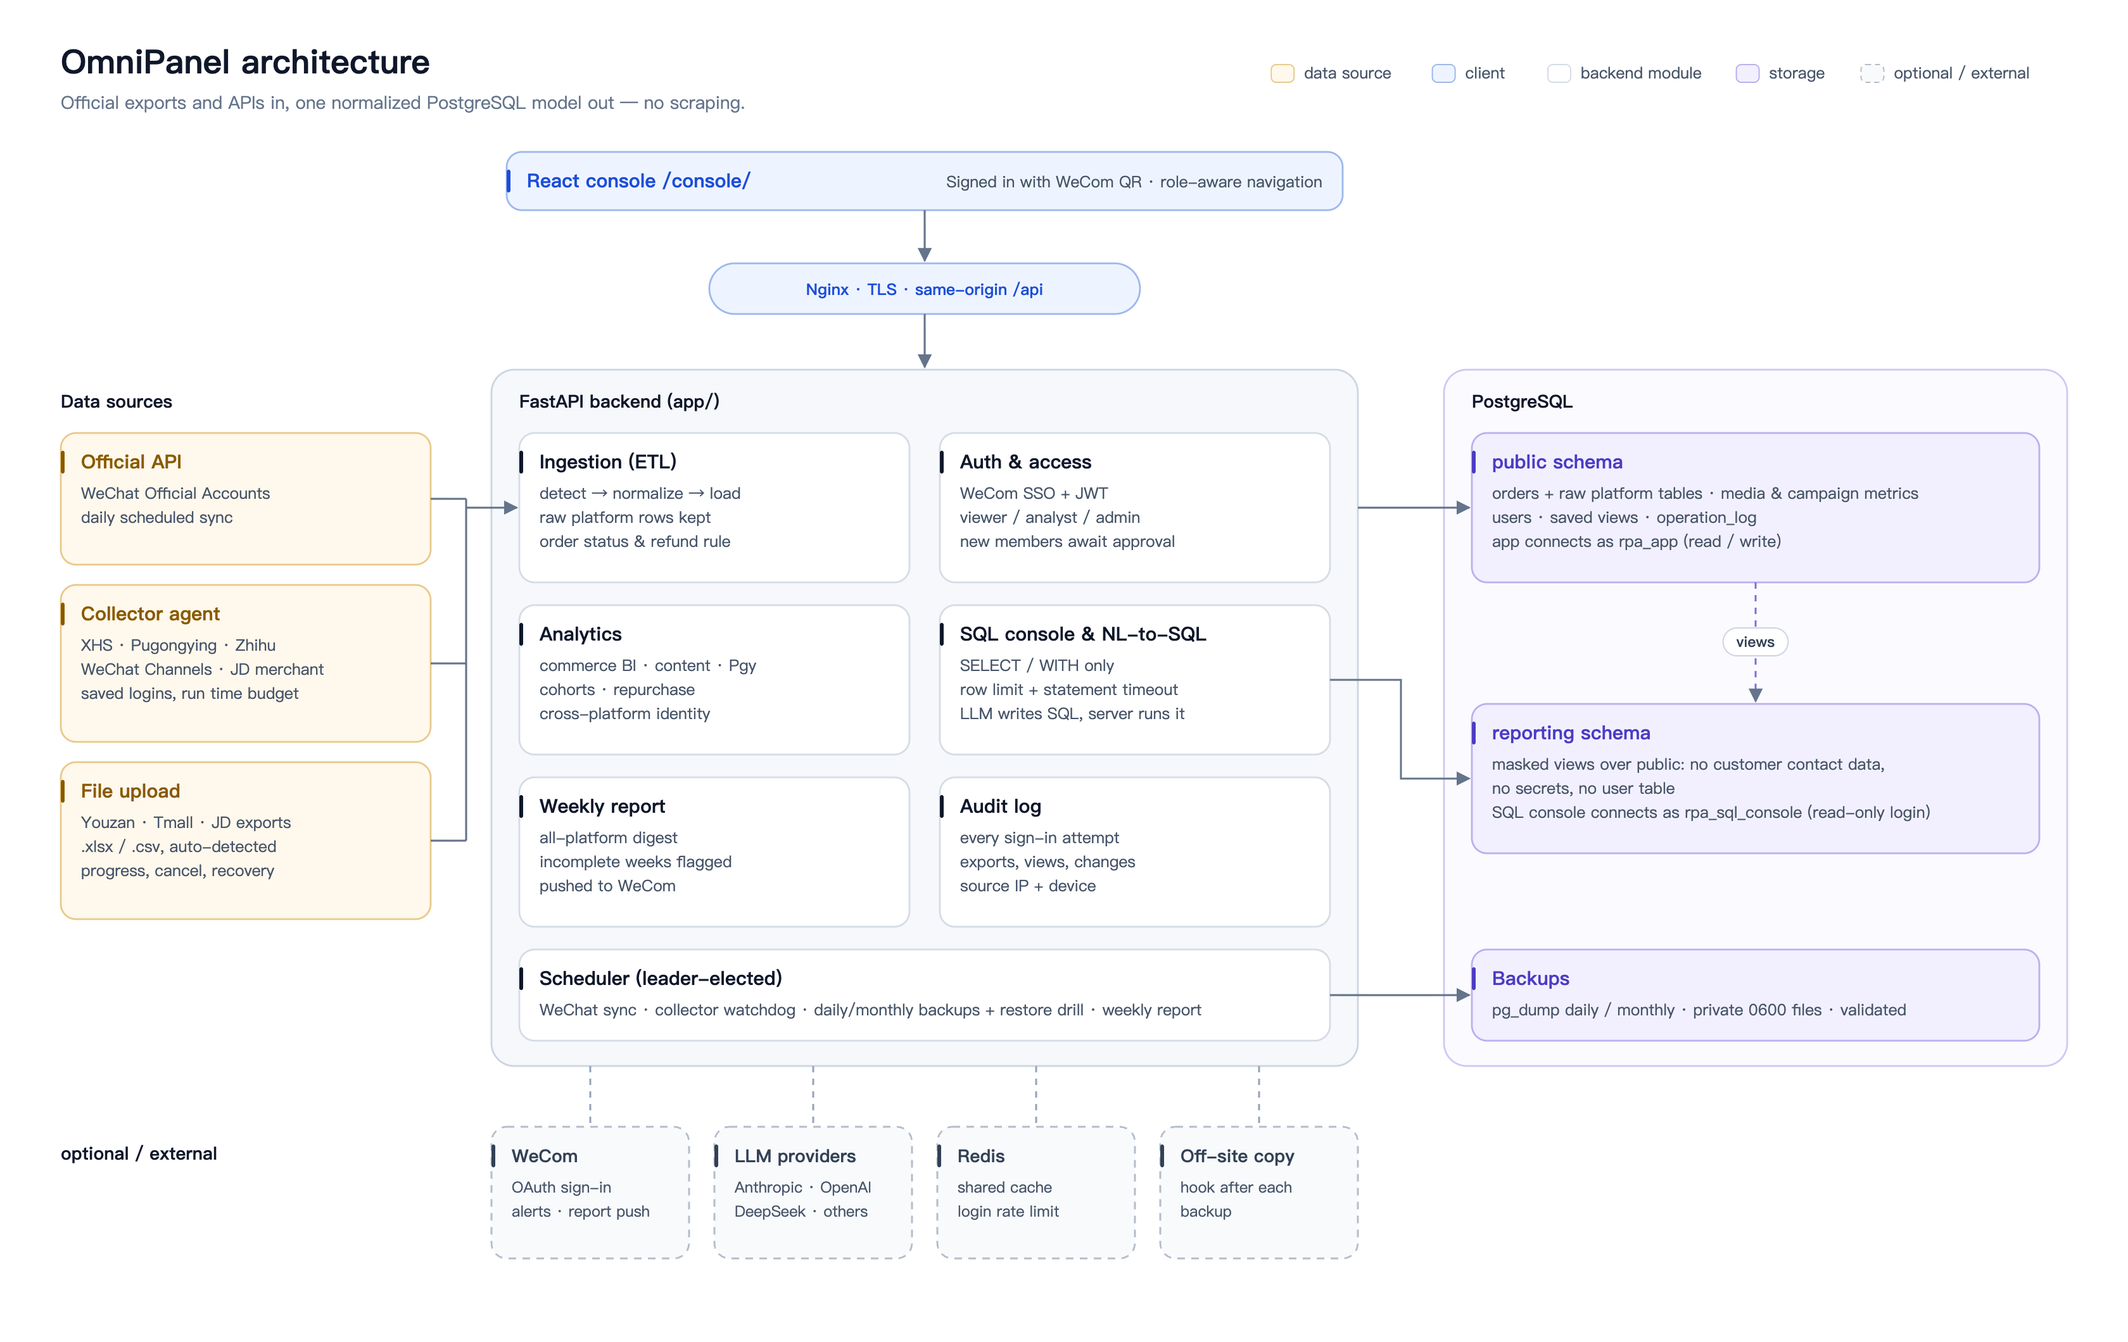
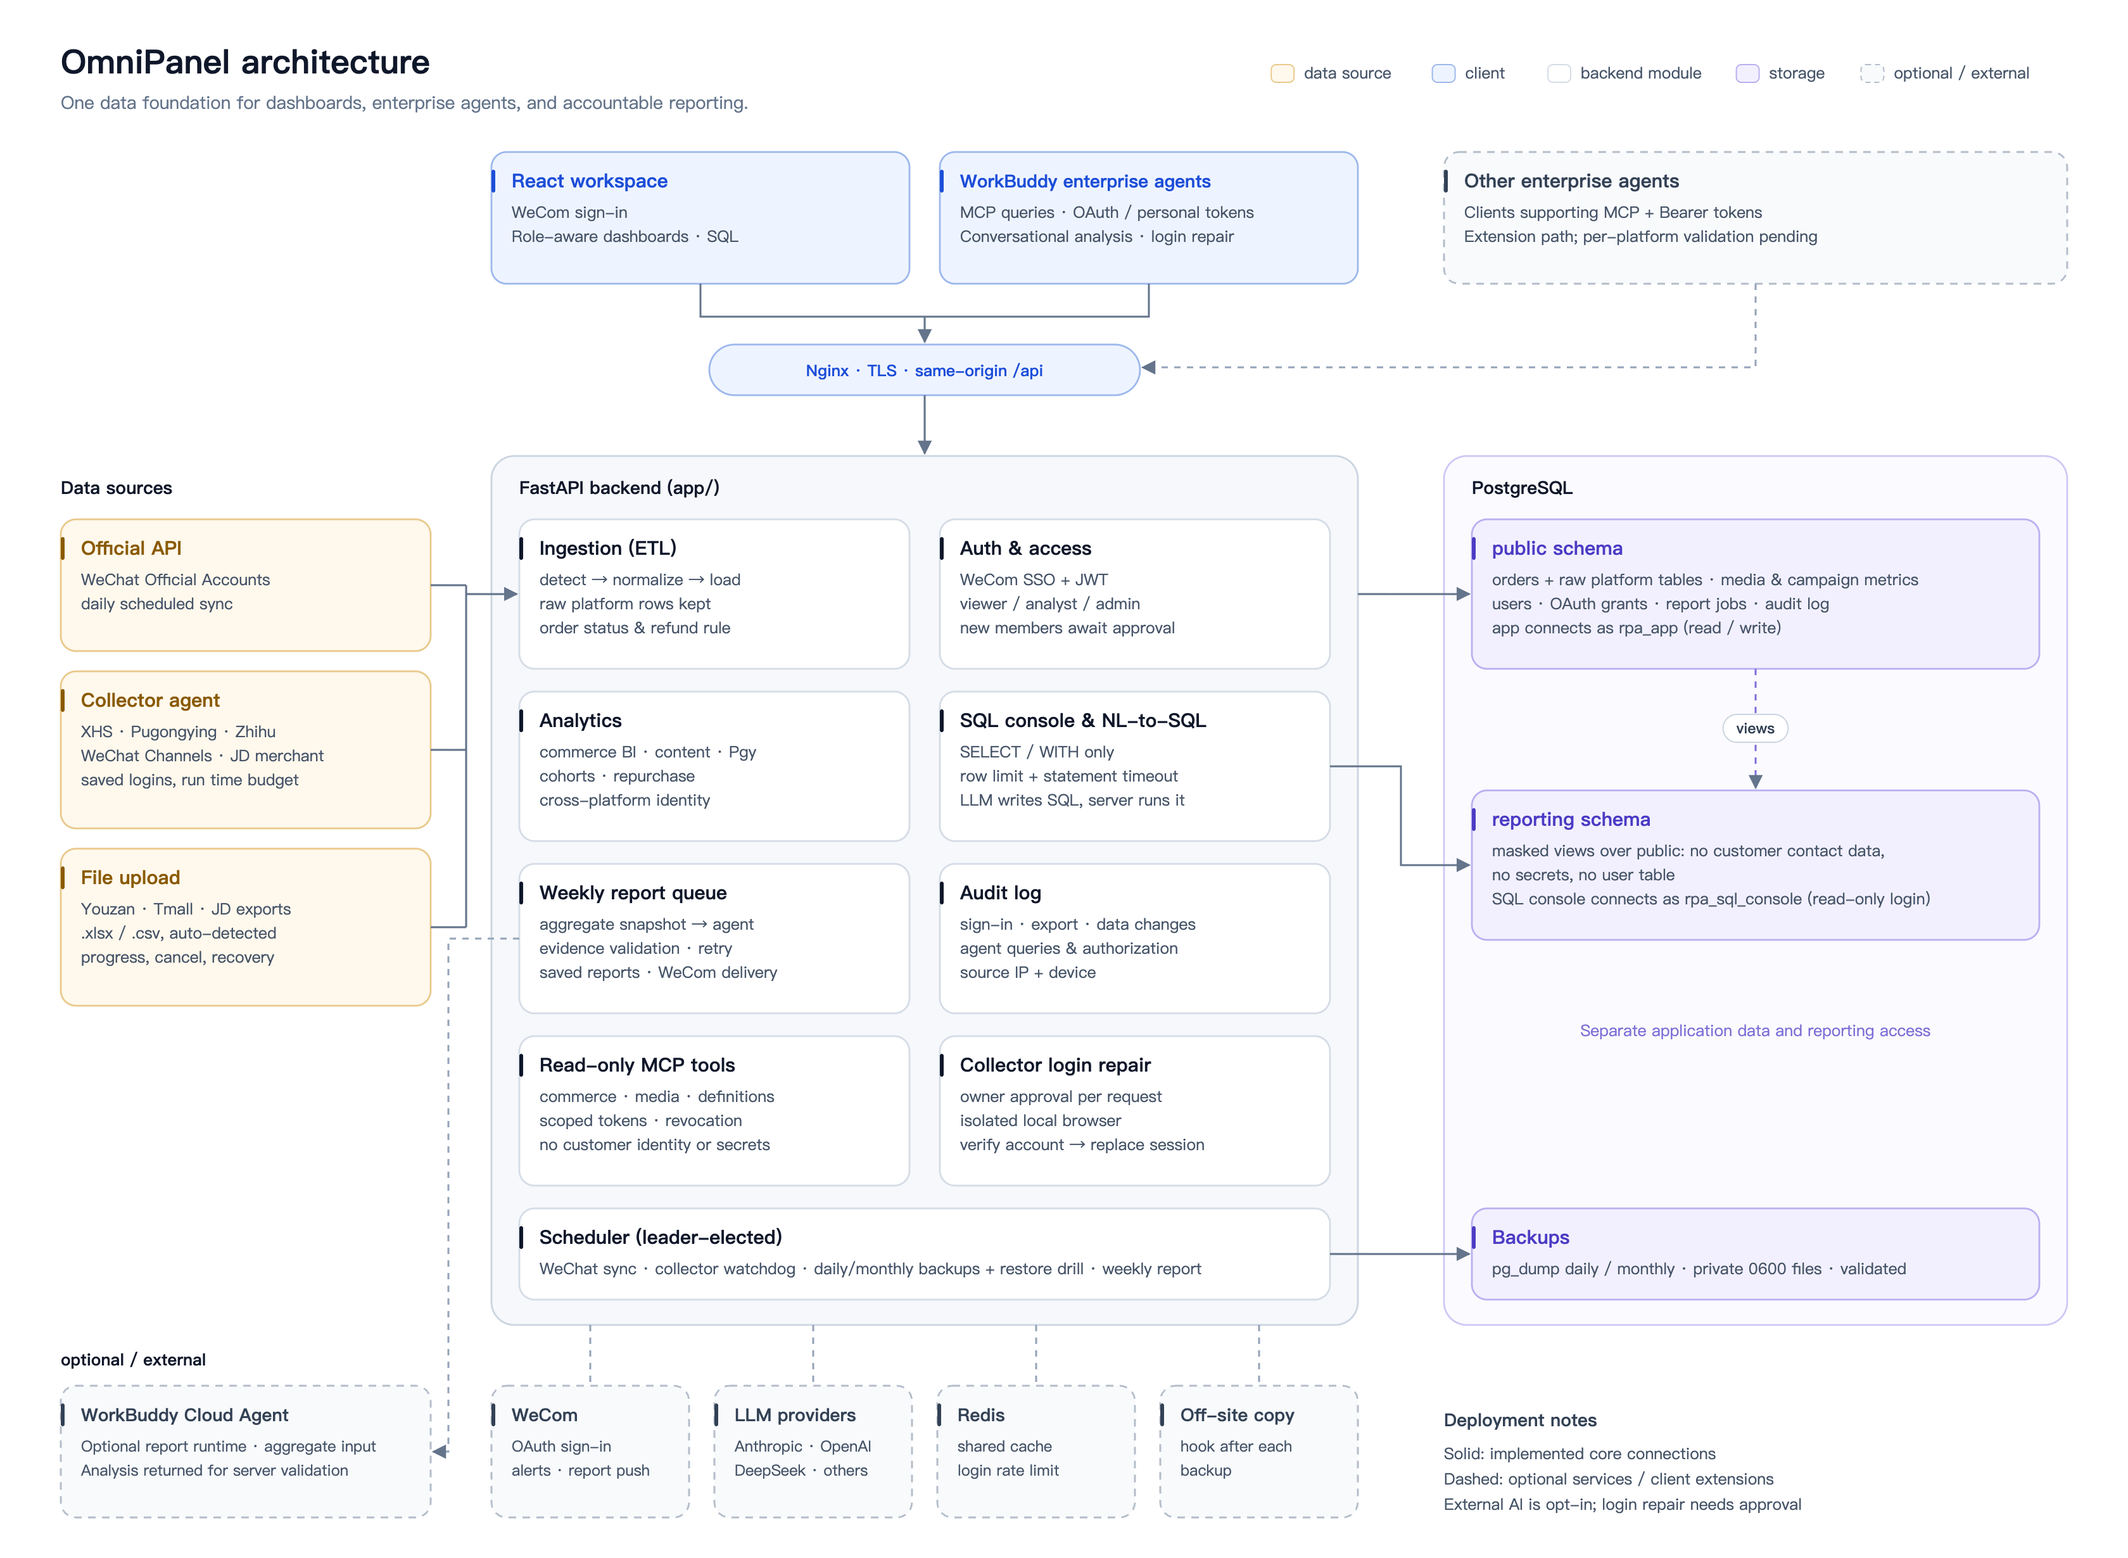
Restore architecture card style with enterprise-agent integration

diff --git a/docs/images/generate_architecture_diagram.py b/docs/images/generate_architecture_diagram.py
@@ -18,7 +18,7 @@ from pathlib import Path
 from playwright.sync_api import sync_playwright
 
 OUT_DIR = Path(__file__).resolve().parent
-W, H = 1680, 1060
+W, H = 1680, 1230
 
 # Fill, border, accent (title) per kind of box.
 PALETTE = {
@@ -33,7 +33,7 @@ TEXT = {
     "en": {
         "out": "architecture.png",
         "title": "OmniPanel architecture",
-        "subtitle": "Official exports and APIs in, one normalized PostgreSQL model out — no scraping.",
+        "subtitle": "One data foundation for dashboards, enterprise agents, and accountable reporting.",
         "sources": "Data sources",
         "src": [
             ("Official API", ["WeChat Official Accounts", "daily scheduled sync"]),
@@ -48,12 +48,14 @@ TEXT = {
             ("Auth & access", ["WeCom SSO + JWT", "viewer / analyst / admin", "new members await approval"]),
             ("Analytics", ["commerce BI · content · Pgy", "cohorts · repurchase", "cross-platform identity"]),
             ("SQL console & NL-to-SQL", ["SELECT / WITH only", "row limit + statement timeout", "LLM writes SQL, server runs it"]),
-            ("Weekly report", ["all-platform digest", "incomplete weeks flagged", "pushed to WeCom"]),
-            ("Audit log", ["every sign-in attempt", "exports, views, changes", "source IP + device"]),
+            ("Weekly report queue", ["aggregate snapshot → agent", "evidence validation · retry", "saved reports · WeCom delivery"]),
+            ("Audit log", ["sign-in · export · data changes", "agent queries & authorization", "source IP + device"]),
+            ("Read-only MCP tools", ["commerce · media · definitions", "scoped tokens · revocation", "no customer identity or secrets"]),
+            ("Collector login repair", ["owner approval per request", "isolated local browser", "verify account → replace session"]),
         ],
         "scheduler": ("Scheduler  (leader-elected)", "WeChat sync · collector watchdog · daily/monthly backups + restore drill · weekly report"),
         "db": "PostgreSQL",
-        "public": ("public schema", ["orders + raw platform tables · media & campaign metrics", "users · saved views · operation_log", "app connects as rpa_app (read / write)"]),
+        "public": ("public schema", ["orders + raw platform tables · media & campaign metrics", "users · OAuth grants · report jobs · audit log", "app connects as rpa_app (read / write)"]),
         "reporting": ("reporting schema", ["masked views over public: no customer contact data,", "no secrets, no user table", "SQL console connects as rpa_sql_console (read-only login)"]),
         "backups": ("Backups", ["pg_dump daily / monthly · private 0600 files · validated"]),
         "views": "views",
@@ -69,7 +71,7 @@ TEXT = {
     "zh": {
         "out": "architecture.zh-CN.png",
         "title": "OmniPanel 架构",
-        "subtitle": "只接官方导出与官方 API，统一归一化到 PostgreSQL —— 不写爬虫。",
+        "subtitle": "统一数据底座，连接分析工作台、企业智能体与可追溯的经营周报。",
         "sources": "数据来源",
         "src": [
             ("官方 API", ["微信公众号", "每天定时同步"]),
@@ -84,12 +86,14 @@ TEXT = {
             ("鉴权与权限", ["企业微信单点登录 + JWT", "viewer / analyst / admin", "新成员需管理员开通"]),
             ("分析接口", ["商城 BI · 内容 · 蒲公英", "队列留存 · 复购", "跨平台客户识别"]),
             ("SQL 查询台与中文问数据", ["只允许 SELECT / WITH", "自动限行 + 语句超时", "大模型写 SQL，服务端执行"]),
-            ("周报", ["全平台汇总", "订单未传完整会标注", "推送到企业微信"]),
-            ("操作日志", ["每一次登录尝试", "导出、查看、数据变更", "来源 IP 与设备"]),
+            ("周报任务队列", ["汇总快照 → 智能体", "证据校验 · 失败重试", "保存报告 · 企业微信推送"]),
+            ("操作日志", ["登录 · 导出 · 数据变更", "智能体查询与授权记录", "来源 IP 与设备"]),
+            ("只读 MCP 工具", ["商城 · 媒体 · 统计口径", "按范围授权 · 可撤销令牌", "不开放客户身份与密钥"]),
+            ("采集登录修复", ["每次请求由负责人确认", "独立的本地浏览器登录", "目标账号复检 → 替换登录态"]),
         ],
         "scheduler": ("后台调度  (leader 选举)", "公众号同步 · 采集看门狗 · 每日/月度备份与恢复演练 · 周报"),
         "db": "PostgreSQL",
-        "public": ("public 模式", ["订单与平台原始表 · 内容与合作指标", "用户 · 保存的视图 · 操作日志", "应用以 rpa_app 连接（读写）"]),
+        "public": ("public 模式", ["订单与平台原始表 · 内容与合作指标", "用户 · OAuth 授权 · 周报任务 · 操作日志", "应用以 rpa_app 连接（读写）"]),
         "reporting": ("reporting 模式", ["基于 public 的脱敏视图：不含客户联系方式、", "密钥和用户表", "查询台以 rpa_sql_console 连接（只读登录）"]),
         "backups": ("备份", ["pg_dump 每日 / 每月 · 文件权限 0600 · 自动校验"]),
         "views": "视图",
@@ -154,55 +158,66 @@ def build(t: dict) -> str:
     s.text(48, 58, t["title"], size=26, weight=700, fill="#0F172A")
     s.text(48, 86, t["subtitle"], size=14, fill="#64748B")
 
-    # Client row
-    s.card(400, 120, 660, 46, "client", t["browser"][0], [], title_size=15)
-    s.text(1044, 148, t["browser"][1], size=12.5, anchor="end", fill="#475569")
-    s.arrow("M730 166 V206")
-    s.box(560, 208, 340, 40, "client", r=20)
-    s.text(730, 233, t["proxy"], size=12.5, weight=500, fill="#1D4ED8", anchor="middle")
-    s.arrow("M730 248 V290")
+    zh = t["out"].endswith("zh-CN.png")
+    # Three entry points retain the original blue client cards.
+    s.card(388, 120, 330, 104, "client", "React 工作台" if zh else "React workspace",
+           ["企业微信扫码登录", "角色导航 · 看板 · SQL"] if zh else
+           ["WeCom sign-in", "Role-aware dashboards · SQL"])
+    s.card(742, 120, 330, 104, "client", "WorkBuddy 企业智能体" if zh else "WorkBuddy enterprise agents",
+           ["MCP 查询 · OAuth / 个人令牌", "对话问数 · 发起登录修复"] if zh else
+           ["MCP queries · OAuth / personal tokens", "Conversational analysis · login repair"], title_size=14)
+    s.card(1140, 120, 492, 104, "external", "其他企业智能体" if zh else "Other enterprise agents",
+           ["兼容 MCP + Bearer 令牌的客户端", "扩展接入路径，尚未逐平台验证"] if zh else
+           ["Clients supporting MCP + Bearer tokens", "Extension path; per-platform validation pending"], dashed=True)
+    s.line("M553 224 V250 H907 V224")
+    s.arrow("M730 250 V270")
+    s.arrow("M1386 224 V290 H902", dashed=True, color="#94A3B8")
+    s.box(560, 272, 340, 40, "client", r=20)
+    s.text(730, 297, t["proxy"], size=12.5, weight=500, fill="#1D4ED8", anchor="middle")
+    s.arrow("M730 312 V358")
 
-    # Backend group
-    s.add('<rect x="388" y="292" width="684" height="550" rx="18" fill="#F6F8FB" stroke="#CBD5E1" stroke-width="1.4"/>')
-    s.text(410, 322, t["backend"], size=14, weight=700, fill="#0F172A")
-    col = (410, 742)
-    rows = (342, 478, 614)
+    # Backend modules: the original two-column grid, extended by one row.
+    s.add('<rect x="388" y="360" width="684" height="686" rx="18" fill="#F6F8FB" stroke="#CBD5E1" stroke-width="1.4"/>')
+    s.text(410, 390, t["backend"], size=14, weight=700, fill="#0F172A")
     for i, (title, lines) in enumerate(t["modules"]):
-        s.card(col[i % 2], rows[i // 2], 308, 118, "module", title, lines)
-    s.card(410, 750, 640, 72, "module", t["scheduler"][0], [t["scheduler"][1]])
+        s.card((410, 742)[i % 2], (410, 546, 682, 818)[i // 2], 308, 118, "module", title, lines)
+    s.card(410, 954, 640, 72, "module", t["scheduler"][0], [t["scheduler"][1]])
 
-    # Sources column and bus into Ingestion
-    s.text(48, 322, t["sources"], size=14, weight=700, fill="#0F172A")
-    ys = ((342, 104), (462, 124), (602, 124))
-    for (y, h), (title, lines) in zip(ys, t["src"]):
+    # Ingestion sources remain on the left.
+    s.text(48, 390, t["sources"], size=14, weight=700, fill="#0F172A")
+    for (y, h), (title, lines) in zip(((410,104),(530,124),(670,124)), t["src"]):
         s.card(48, y, 292, h, "source", title, lines)
         s.line(f"M340 {y + h / 2} H368")
-    s.line(f"M368 {342 + 52} V{602 + 62}")
-    s.arrow("M368 401 H408")
+    s.line("M368 462 V732")
+    s.arrow("M368 469 H408")
 
-    # PostgreSQL group
-    s.add('<rect x="1140" y="292" width="492" height="550" rx="18" fill="#FBFAFF" stroke="#CFC8F5" stroke-width="1.4"/>')
-    s.text(1162, 322, t["db"], size=14, weight=700, fill="#0F172A")
-    pub_t, pub_l = t["public"]
-    s.card(1162, 342, 448, 118, "data", pub_t, pub_l)
-    rep_t, rep_l = t["reporting"]
-    s.card(1162, 556, 448, 118, "data", rep_t, rep_l)
-    s.card(1162, 750, 448, 72, "data", t["backups"][0], t["backups"][1])
-    s.arrow("M1386 460 V554", dashed=True, color="#7C6FD6")
-    s.pill(1386, 507, t["views"])
+    # Storage and the isolated SQL role remain on the right.
+    s.add('<rect x="1140" y="360" width="492" height="686" rx="18" fill="#FBFAFF" stroke="#CFC8F5" stroke-width="1.4"/>')
+    s.text(1162, 390, t["db"], size=14, weight=700, fill="#0F172A")
+    s.card(1162, 410, 448, 118, "data", t["public"][0], t["public"][1])
+    s.card(1162, 624, 448, 118, "data", t["reporting"][0], t["reporting"][1])
+    s.card(1162, 954, 448, 72, "data", t["backups"][0], t["backups"][1])
+    s.arrow("M1386 528 V622", dashed=True, color="#7C6FD6")
+    s.pill(1386, 575, t["views"])
+    s.arrow("M1072 469 H1160")
+    s.arrow("M1050 605 H1106 V683 H1160")
+    s.arrow("M1050 990 H1160")
+    s.text(1386, 818, "业务表与受限报表视图分离" if zh else "Separate application data and reporting access",
+           size=12.5, anchor="middle", fill="#7C6FD6")
 
-    # Backend → database
-    s.arrow("M1072 401 H1160")
-    s.arrow("M1050 537 H1106 V615 H1160")
-    s.arrow("M1050 786 H1160")
-
-    # External services
-    ext_y = 912
-    xs = (388, 564, 740, 916)
-    s.text(48, ext_y + 4, t["optional"], size=14, weight=700, fill="#0F172A")
-    for x, (title, lines) in zip(xs, t["external"]):
-        s.card(x, ext_y - 22, 156, 104, "external", title, lines, dashed=True, title_size=14, line_size=12)
-        s.line(f"M{x + 78} 842 V{ext_y - 22}", dashed=True, color="#94A3B8")
+    # WorkBuddy's report runtime is distinct from its MCP client.
+    s.card(48, 1094, 292, 104, "external", "WorkBuddy Cloud Agent",
+           ["可选周报服务 · 接收汇总快照", "返回分析结果，平台校验后保存"] if zh else
+           ["Optional report runtime · aggregate input", "Analysis returned for server validation"], dashed=True, title_size=14, line_size=12)
+    s.arrow("M410 741 H354 V1146 H342", dashed=True, color="#94A3B8")
+    s.text(48, 1078, t["optional"], size=13, weight=700, fill="#0F172A")
+    for x, (title, lines) in zip((388,564,740,916), t["external"]):
+        s.card(x, 1094, 156, 104, "external", title, lines, dashed=True, title_size=14, line_size=12)
+        s.line(f"M{x + 78} 1046 V1094", dashed=True, color="#94A3B8")
+    s.text(1140, 1126, "部署说明" if zh else "Deployment notes", size=14, weight=600, fill="#334155")
+    for i, line in enumerate((["实线：已实现的核心连接", "虚线：可选服务 / 待验证的客户端扩展", "外部 AI 按需启用；登录修复需用户确认"] if zh else
+                            ["Solid: implemented core connections", "Dashed: optional services / client extensions", "External AI is opt-in; login repair needs approval"])):
+        s.text(1140, 1152 + i * 20, line, size=12.5)
 
     # Legend
     def label_w(label):

diff --git a/README.md b/README.md
@@ -19,25 +19,9 @@ Bring orders, content performance, and creator partnerships into one place. Expl
 
 ## System overview
 
-```mermaid
-flowchart TB
-    Sources["Platform APIs · Exports · Authorized browser collection"] --> Ingest["Detect · Validate · Deduplicate · Normalize"]
-    Ingest --> DB[("PostgreSQL")]
-    UI["React analytics workspace"] --> API["FastAPI · Roles · Metric definitions · Audit"]
-    WB["WorkBuddy enterprise agents"] -->|"MCP · OAuth / Personal token"| MCP["Scoped read-only tools"]
-    Other["Other compatible MCP agents"] -.->|"Token access · Client validation pending"| MCP
-    MCP --> API
-    API --> DB
-    API --> Jobs["Report queue · Validation · Retries"]
-    Jobs -->|"Optional aggregate snapshot"| Cloud["WorkBuddy Cloud Agent"]
-    Cloud -->|"Analysis result"| Jobs
-    Jobs --> Reports["Saved reports · WeCom notifications"]
-    WB -->|"User initiated"| Local["Local collector login helper"]
-    Local -->|"Owner approval · Account verification"| Repair["Collector repair API"]
-    Repair --> Sessions["Collector sessions"]
-```
+![OmniPanel system architecture](docs/images/architecture.png)
 
-Solid lines show implemented paths; the dashed line shows a client extension path. External AI is opt-in, and login repair requires user approval. See the [architecture guide](docs/architecture.md) for deployment details.
+Solid lines show implemented core connections; dashed lines show optional services or client extensions pending validation. External AI is opt-in, and login repair requires user approval. See the [architecture guide](docs/architecture.md) for deployment details.
 
 ![OmniPanel business overview: revenue trends, channel mix, and data coverage](docs/images/screenshot_overview.png)
 

diff --git a/README.zh-CN.md b/README.zh-CN.md
@@ -19,25 +19,9 @@
 
 ## 系统框架
 
-```mermaid
-flowchart TB
-    Sources["平台 API · 导出文件 · 授权浏览器采集"] --> Ingest["识别 · 校验 · 去重 · 归一化"]
-    Ingest --> DB[("PostgreSQL")]
-    UI["React 分析工作台"] --> API["FastAPI · 角色权限 · 统计口径 · 审计"]
-    WB["WorkBuddy 企业智能体"] -->|"MCP · OAuth / 个人令牌"| MCP["受限只读工具"]
-    Other["其他兼容 MCP 的智能体"] -.->|"令牌接入 · 待逐端验证"| MCP
-    MCP --> API
-    API --> DB
-    API --> Jobs["周报队列 · 校验 · 重试"]
-    Jobs -->|"可选汇总快照"| Cloud["WorkBuddy Cloud Agent"]
-    Cloud -->|"分析结果"| Jobs
-    Jobs --> Reports["保存周报 · 企业微信通知"]
-    WB -->|"用户发起"| Local["本地采集登录助手"]
-    Local -->|"负责人授权 · 账号复检"| Repair["采集登录修复 API"]
-    Repair --> Sessions["采集登录态"]
-```
+![OmniPanel 系统框架](docs/images/architecture.zh-CN.png)
 
-实线表示已实现的功能路径；虚线表示可扩展的客户端接入路径。外部 AI 服务按需启用，采集登录修复需要用户确认。部署细节见[架构文档](docs/architecture.zh-CN.md)。
+实线表示已实现的核心连接；虚线表示可选服务或待验证的客户端扩展。外部 AI 服务按需启用，采集登录修复需要用户确认。部署细节见[架构文档](docs/architecture.zh-CN.md)。
 
 ![OmniPanel 经营概览：营业额趋势、渠道构成与数据覆盖状态](docs/images/screenshot_overview.png)
 
